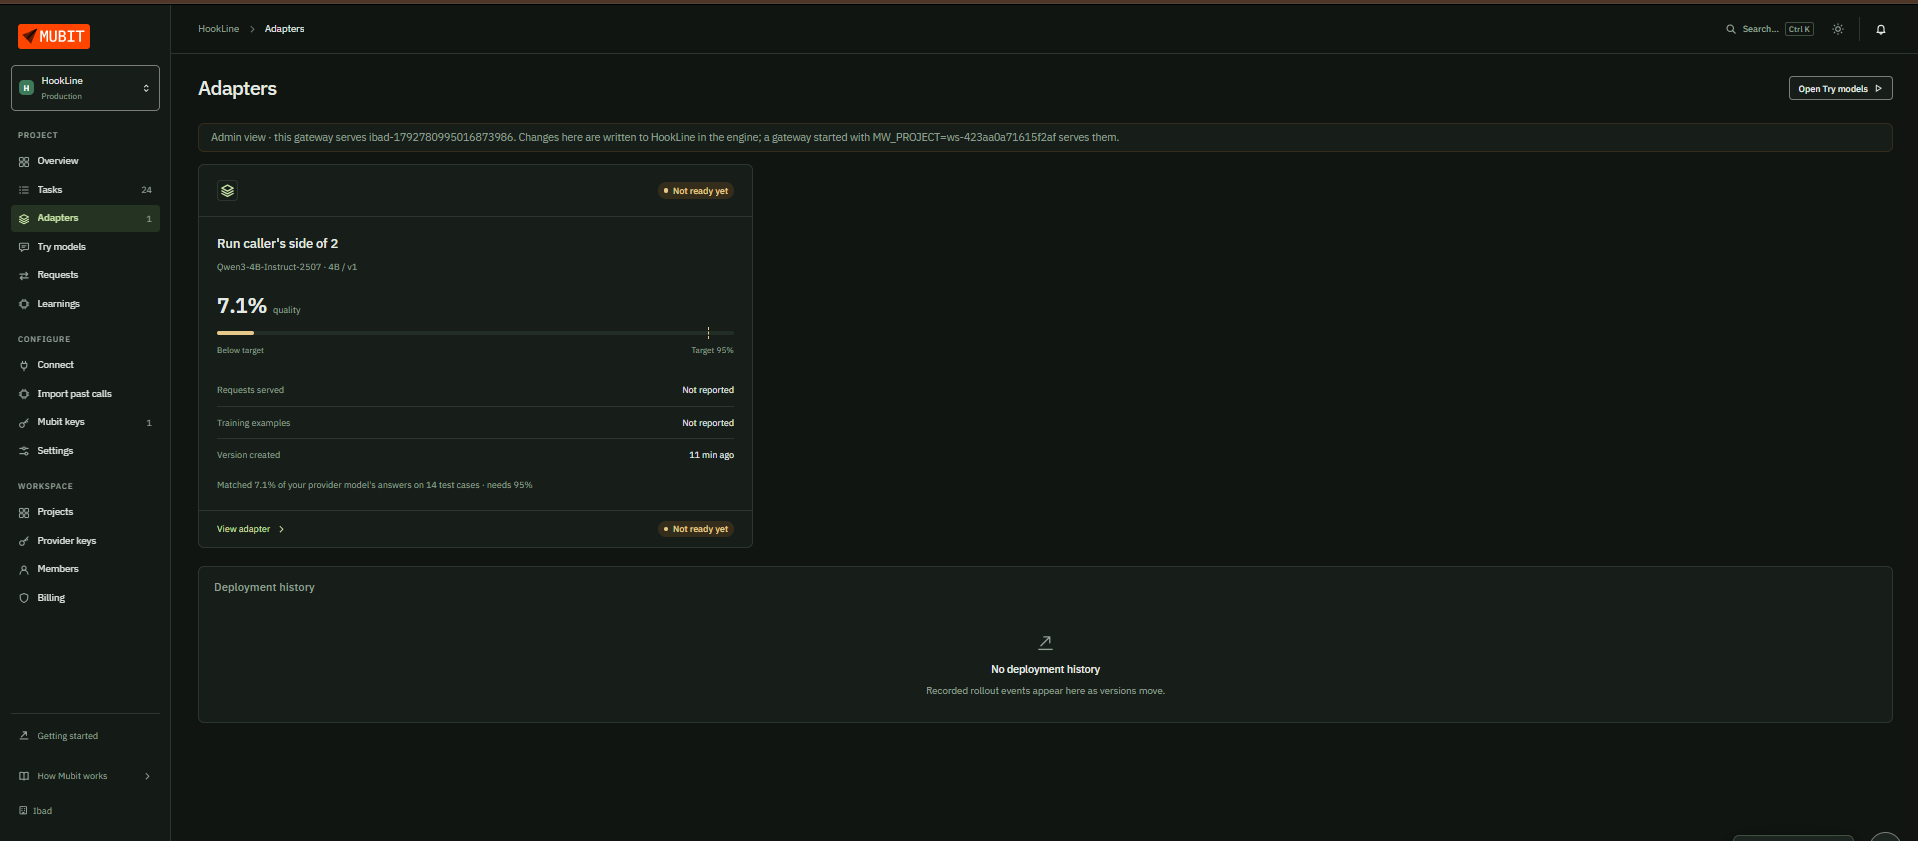
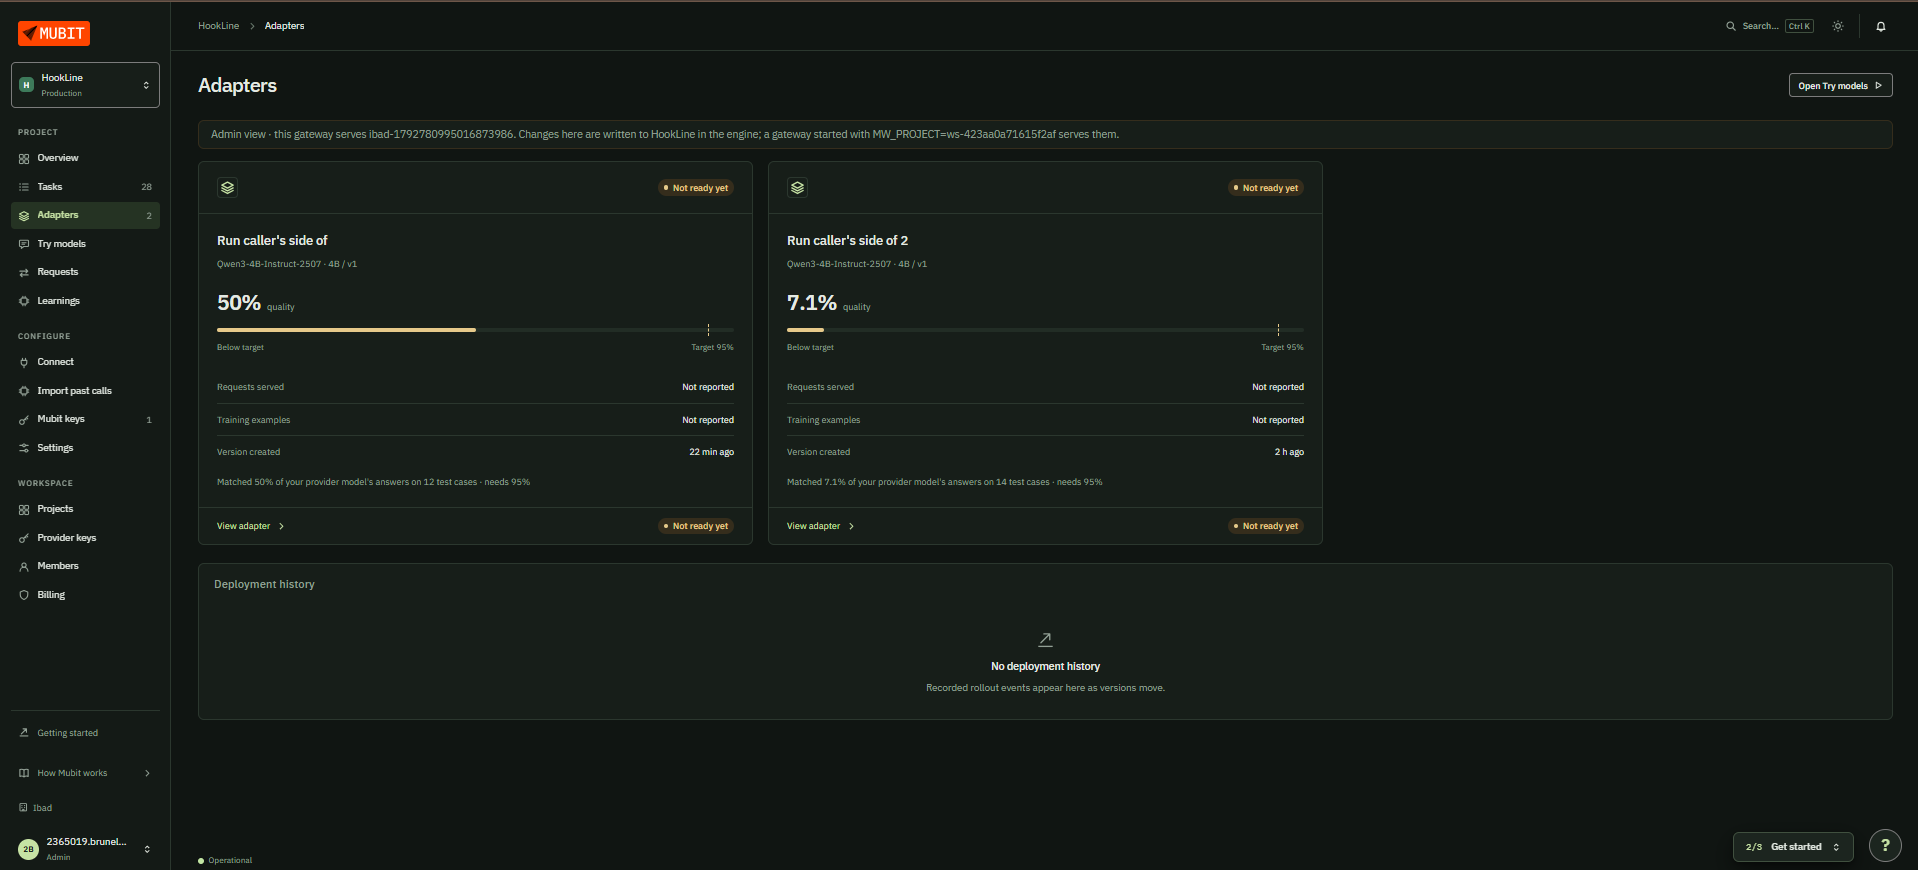
data: second Mubit adapter (call coach, Haiku side, 50% on 12 tests); latest console screenshots; README adapters table

diff --git a/README.md b/README.md
@@ -126,11 +126,18 @@ flowchart LR
 
 ### Adapters so far
 
-The first adapter trained overnight: the call coach, v1 on **Qwen3-4B-Instruct**, matched the big model on
-7.1% of 14 test cases. Mubit's target to go live is 95%. That result taught us something useful: the coach's
-answers mixed a fixed label with free text, and a small model can't match free text word for word. So we split
-that job. **Intent** (one label) and **Gatecheck** (yes or no) are now separate tasks, each with hundreds of
-varied calls sent, and both are much better adapter candidates.
+Two adapters trained overnight, both on **Qwen3-4B-Instruct**, for the call coach (one per model side):
+
+| Adapter | Matched the big model | Test cases | Target |
+|---|---|---|---|
+| Call coach, Claude Haiku side | **50%** | 12 | 95% |
+| Call coach, small-model side | 7.1% | 14 | 95% |
+
+Neither is live yet, but the jump from 7.1% to 50% in a few hours shows the loop working: more varied calls in, a better
+small model out. What we learned: the coach's answer mixed a fixed label with free text, and a small model can't match
+free text word for word. So we split that job: **Intent** ("Label one reply", 601 calls) and **Gatecheck** ("Check one
+reply", 691 calls) now answer with a single label or a yes/no at temperature 0, and are queued for review as the next
+adapter candidates.
 
 <p align="center">
   <img src="docs/images/mubit-console-adapters.png" width="49%" alt="Mubit console: first adapter trained, Qwen3-4B, 7.1% quality" />
